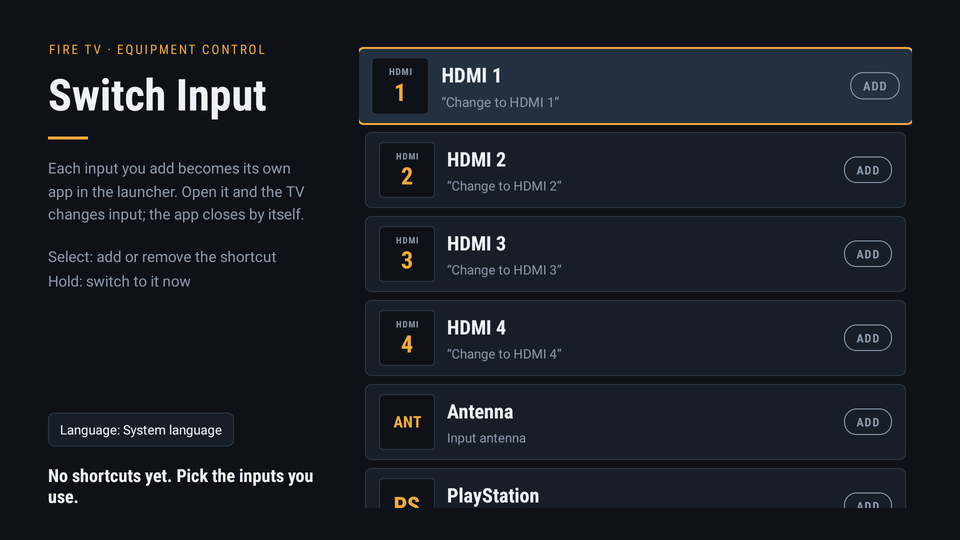
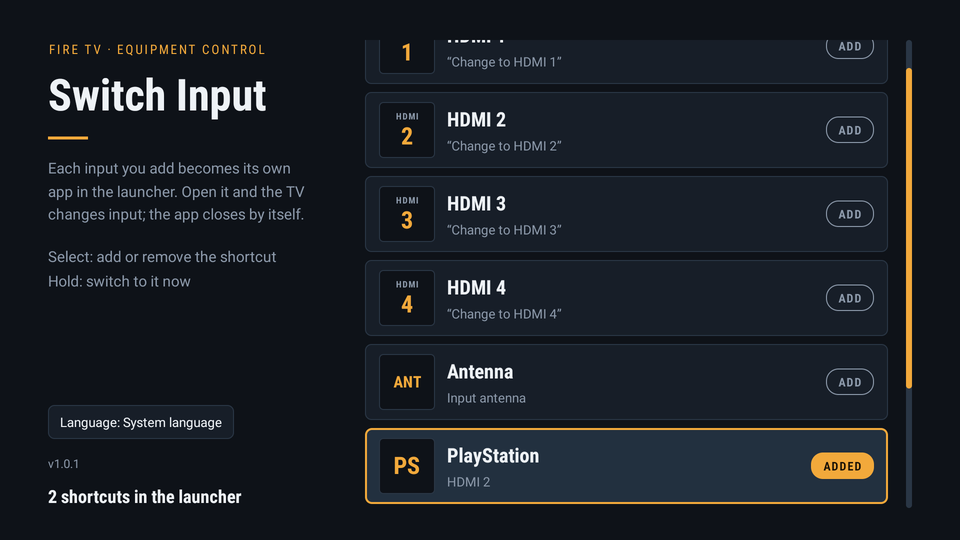
1.0.1: shortcuts visible after relaunch, scrollbar, focus fits the list
- <queries> for LEANBACK_LAUNCHER activities: on Android 11 the app could not
  see the installed stub packages, so every relaunch showed 'No shortcuts yet'.
- Vertical scrollbar drawn outside the content (outsideOverlay) with an 18dp
  gutter so it never touches the cards.
- No focus scale: the highlighted card stays inside the list bounds.
- version.properties 1.0.1 / 101, CHANGELOG entry, README hero screenshot.

Changed region(s): [[0.375, 0.0593, 0.9688, 0.9481], [0.0312, 0.8593, 0.3438, 0.9481], [0.0625, 0.7704, 0.25, 0.8296]]

diff --git a/app/src/main/java/pt/aadf/sourcesswitcher/MainActivity.kt b/app/src/main/java/pt/aadf/sourcesswitcher/MainActivity.kt
@@ -139,10 +139,6 @@ class MainActivity : AppCompatActivity() {
             bindPill(h, row)
             h.card.setOnClickListener { onToggle(row) }
             h.card.setOnLongClickListener { onTry(row); true }
-            h.card.setOnFocusChangeListener { v, focused ->
-                val scale = if (focused) 1.03f else 1f
-                v.animate().scaleX(scale).scaleY(scale).setDuration(120).start()
-            }
             h.card.alpha = if (row.supported) 1f else 0.45f
             h.card.contentDescription = row.input.label + ", " + ctx.getString(if (row.enabled) R.string.pill_on else R.string.pill_off)
         }

diff --git a/CHANGELOG.md b/CHANGELOG.md
@@ -1,5 +1,12 @@
 # Changelog
 
+## 1.0.1 – 2026-10-27
+
+- Shortcuts installed earlier are shown as added again after reopening the app
+  (Android 11 package visibility: the app now declares which packages it looks for).
+- Vertical scrollbar on the input list.
+- Focused card no longer grows past the edges of the list.
+
 ## 1.0.0 – 2026-10-27
 
 First release.
